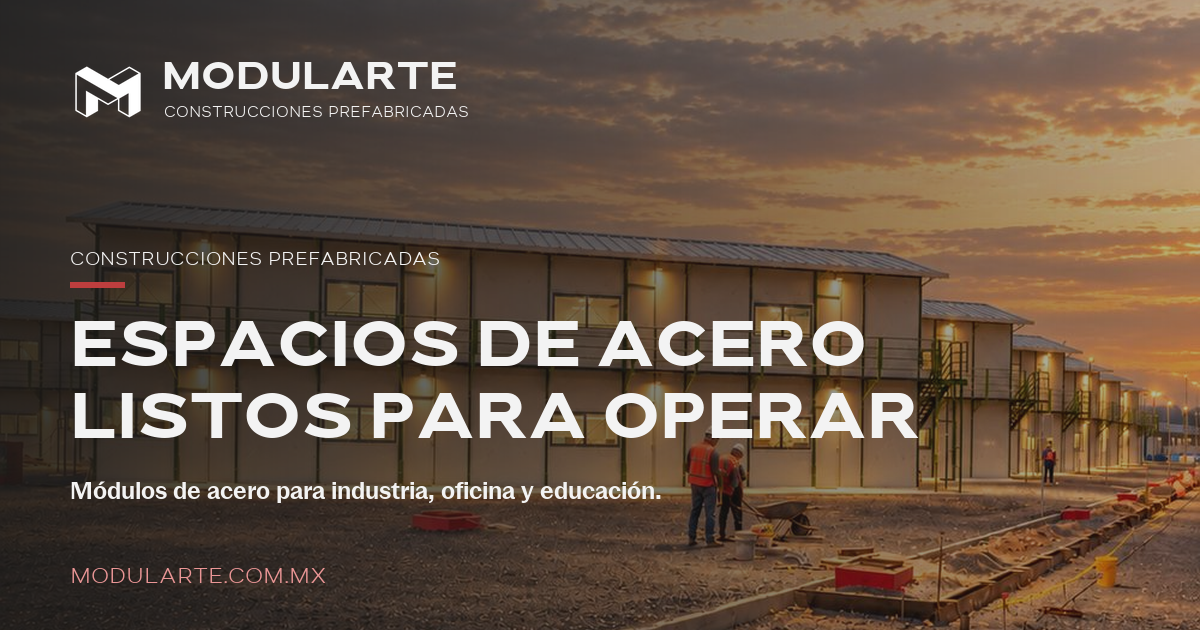
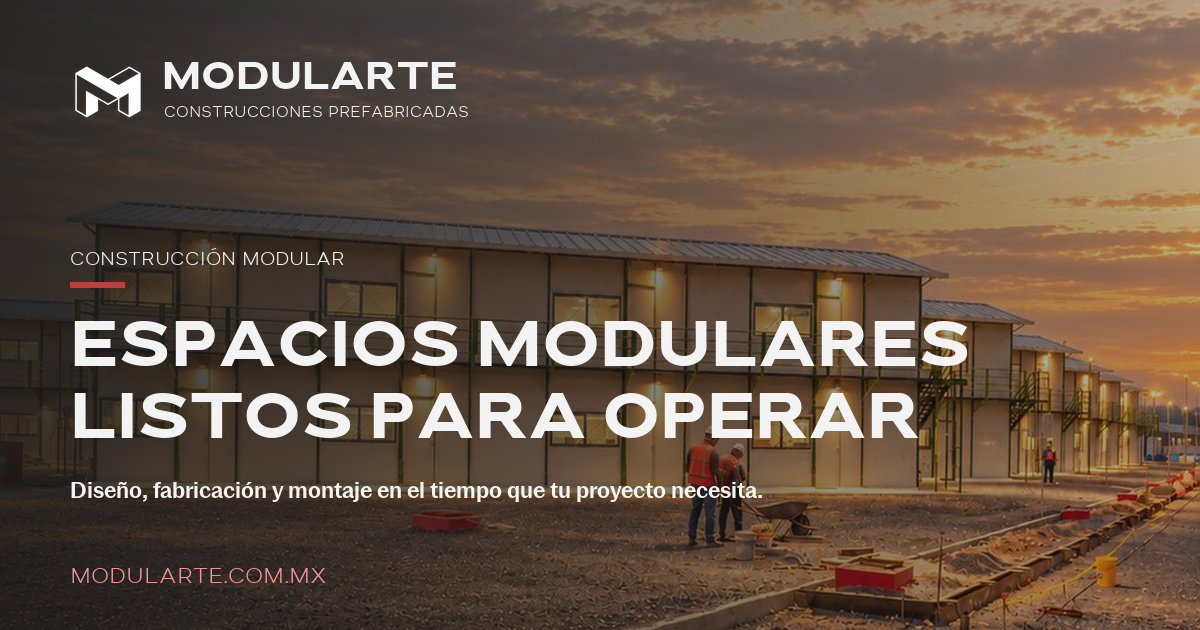
Copy: el concepto unificador es 'modular', no 'acero' (acero solo aplica a Armabox)
- Hero: 'Espacios modulares listos para operar'. Banda de impacto: textura 'MODULAR'.
- OG + metadata + JSON-LD + Nosotros/Proyectos/Footer/Minería: 'de acero' → 'modular(es)'.
- Armabox conserva 'acero' (sí es de acero estructural).

Changed region(s): [[0.0617, 0.754, 0.6475, 0.8143], [0.4008, 0.5127, 0.8325, 0.6032], [0.185, 0.3921, 0.37, 0.4222]]

diff --git a/src/app/layout.tsx b/src/app/layout.tsx
@@ -12,11 +12,11 @@ export const metadata: Metadata = {
     template: "%s · Modularte",
   },
   description:
-    "Diseño, fabricación y montaje de espacios modulares de acero para industria, oficina, educación y más. Entrega en semanas, no en meses.",
+    "Construcción modular de nivel industrial: diseño, fabricación y montaje de espacios modulares para industria, oficina, educación y más. Entrega en semanas, no en meses.",
   openGraph: {
     title: "Modularte · Construcciones prefabricadas",
     description:
-      "Espacios modulares de acero listos para operar. Cotiza tu proyecto por sistema y aplicación.",
+      "Espacios modulares listos para operar. Cotiza tu proyecto por sistema y aplicación.",
     type: "website",
     locale: "es_MX",
   },
@@ -27,7 +27,7 @@ const jsonLd = {
   "@type": "GeneralContractor",
   name: "Modularte",
   description:
-    "Diseño, fabricación y montaje de espacios modulares de acero para industria, oficina, educación y más.",
+    "Construcción modular de nivel industrial: diseño, fabricación y montaje de espacios modulares para industria, oficina, educación y más.",
   url: "https://modularte.com.mx",
   logo: "https://modularte.com.mx/brand/logo/modularte-vertical.png",
   image: "https://modularte.com.mx/fotos/modulos-exterior.jpg",

diff --git a/src/app/page.tsx b/src/app/page.tsx
@@ -35,7 +35,7 @@ export default function Home() {
             <span className="mt-2 block h-[3px] w-10 bg-rojo" />
           </span>
           <h1 className="mt-6 max-w-5xl font-display text-6xl font-bold uppercase leading-[0.9] tracking-tight text-white sm:text-8xl">
-            Espacios de acero
+            Espacios modulares
             <br />
             listos para operar
           </h1>
@@ -109,7 +109,7 @@ export default function Home() {
           className="pointer-events-none absolute inset-0 flex items-center justify-center overflow-hidden"
         >
           <span className="select-none font-display text-[30vw] font-bold uppercase leading-none text-white/10">
-            Acero
+            Modular
           </span>
         </span>
         <div className="relative mx-auto max-w-6xl px-4 py-24">

diff --git a/src/app/nosotros/page.tsx b/src/app/nosotros/page.tsx
@@ -28,7 +28,7 @@ export default function NosotrosPage() {
               Treinta años construyendo
             </h1>
             <p className="mt-5 max-w-xl text-lg text-pizarra">
-              En Modularte diseñamos, fabricamos y montamos espacios modulares de acero.
+              En Modularte diseñamos, fabricamos y montamos espacios modulares.
               Entregamos operación lista donde otros apenas empiezan la obra.
             </p>
             <div className="mt-8">

diff --git a/src/data/sectores.ts b/src/data/sectores.ts
@@ -13,7 +13,7 @@ export const sectores: Sector[] = [
     slug: "mineria",
     nombre: "Minería",
     problema: "Campamentos y oficinas donde no hay infraestructura, en plazos cortos.",
-    solucion: "Módulos de acero para dormitorios, comedores y oficinas, resistentes y reubicables.",
+    solucion: "Módulos para dormitorios, comedores y oficinas, resistentes y reubicables.",
     sistemas: ["armabox", "unidades-moviles"],
     img: "/fotos/campamento.jpg",
   },

diff --git a/src/app/proyectos/page.tsx b/src/app/proyectos/page.tsx
@@ -17,7 +17,7 @@ export default function ProyectosPage() {
         Obra entregada, no promesas
       </h1>
       <p className="mt-4 max-w-xl text-pizarra">
-        Casos reales por sistema y sector. Espacios modulares de acero entregados y
+        Casos reales por sistema y sector. Espacios modulares entregados y
         montados en sitio.
       </p>
 

diff --git a/src/components/Footer.tsx b/src/components/Footer.tsx
@@ -17,7 +17,7 @@ export default function Footer() {
           />
           <p className="mt-4 max-w-xs text-sm text-pizarra">
             Construcciones prefabricadas. Diseño, fabricación y montaje de espacios
-            modulares de acero.
+            modulares.
           </p>
         </div>
 
